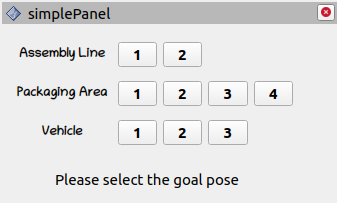
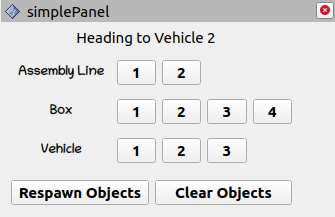
docs: update README.md

diff --git a/README.md b/README.md
@@ -10,7 +10,7 @@ NUS ME5413 Autonomous Mobile Robotics Final Project
 ![GitHub Repo stars](https://img.shields.io/github/stars/NUS-Advanced-Robotics-Centre/ME5413_Final_Project?color=FFE333)
 ![GitHub Repo forks](https://img.shields.io/github/forks/NUS-Advanced-Robotics-Centre/ME5413_Final_Project?color=FFE333)
 
-![cover_image](src/me5413_world/media/gazebo_world.jpg)
+![cover_image](src/me5413_world/media/gazebo_world.png)
 
 ## Dependencies
 
@@ -164,7 +164,7 @@ roslaunch me5413_world navigation.launch
 
 * From the starting point, move to the given pose within each area in sequence
   * Assembly Line 1, 2
-  * Packaging Area 1, 2, 3, 4
+  * Random Box 1, 2, 3, 4
   * Delivery Vehicle 1, 2, 3
 * We have provided you a GUI in RVIZ that allows you to click and publish these given goal poses to the `/move_base_simple/goal` topic:
   
